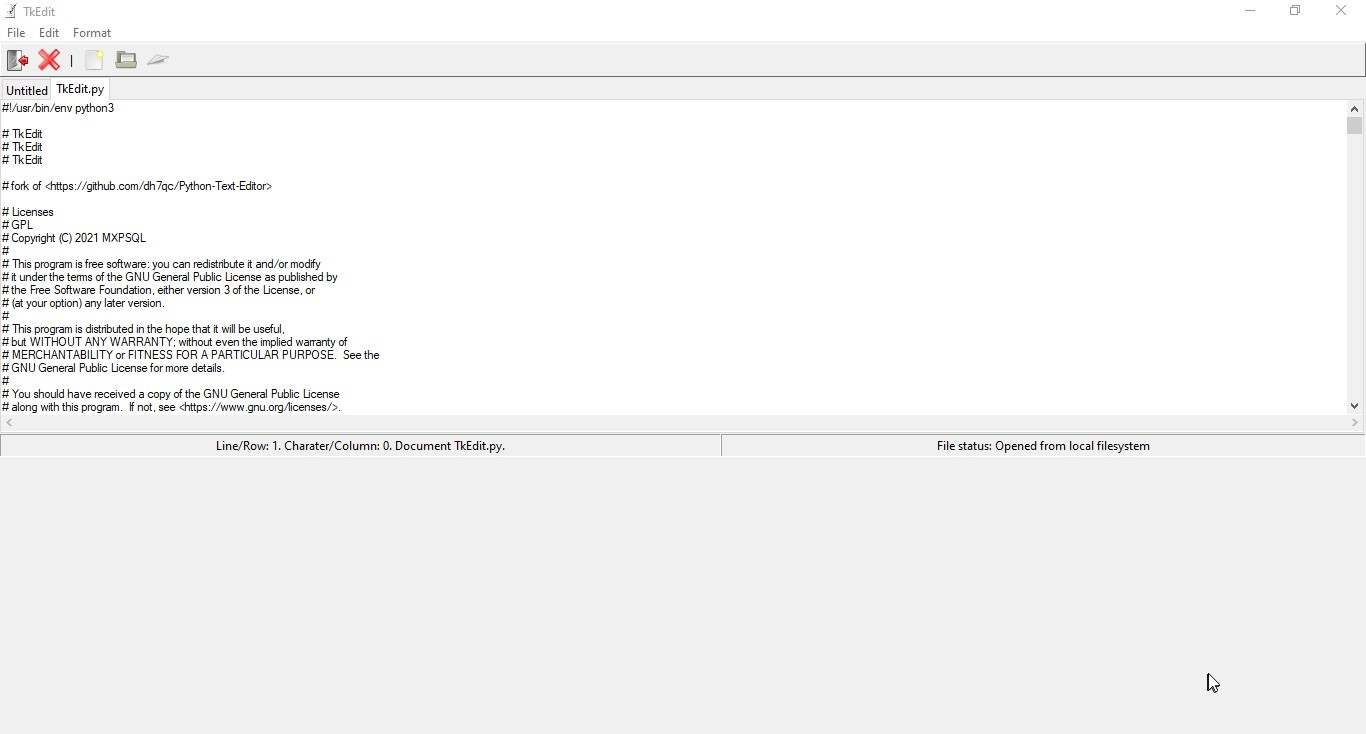
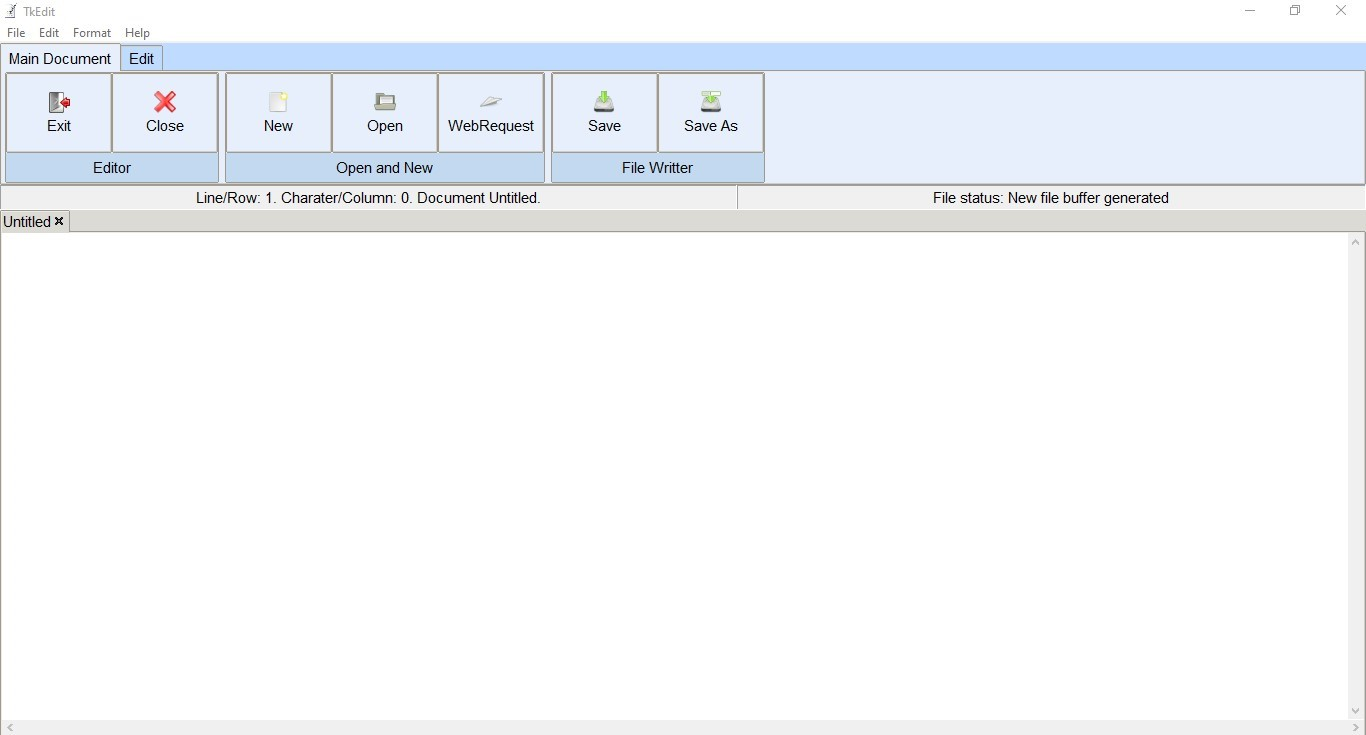
theme and image update

diff --git a/TkEdit.py b/TkEdit.py
@@ -852,6 +852,8 @@ win.title("TkEdit")
 win.srcurl = "https://github.com/MXP2095onetechguy/TkEdit"
 win.wtkstyle = wtk.Style()
 win.iconphoto(True,tk.PhotoImage(file=os.path.join(win.assetPath, "TkEdit.png")))
+# witkets style configuration
+win.wtkstyle.theme_use("clam")
 # hide window
 win.withdraw()
 # print(win.args)
